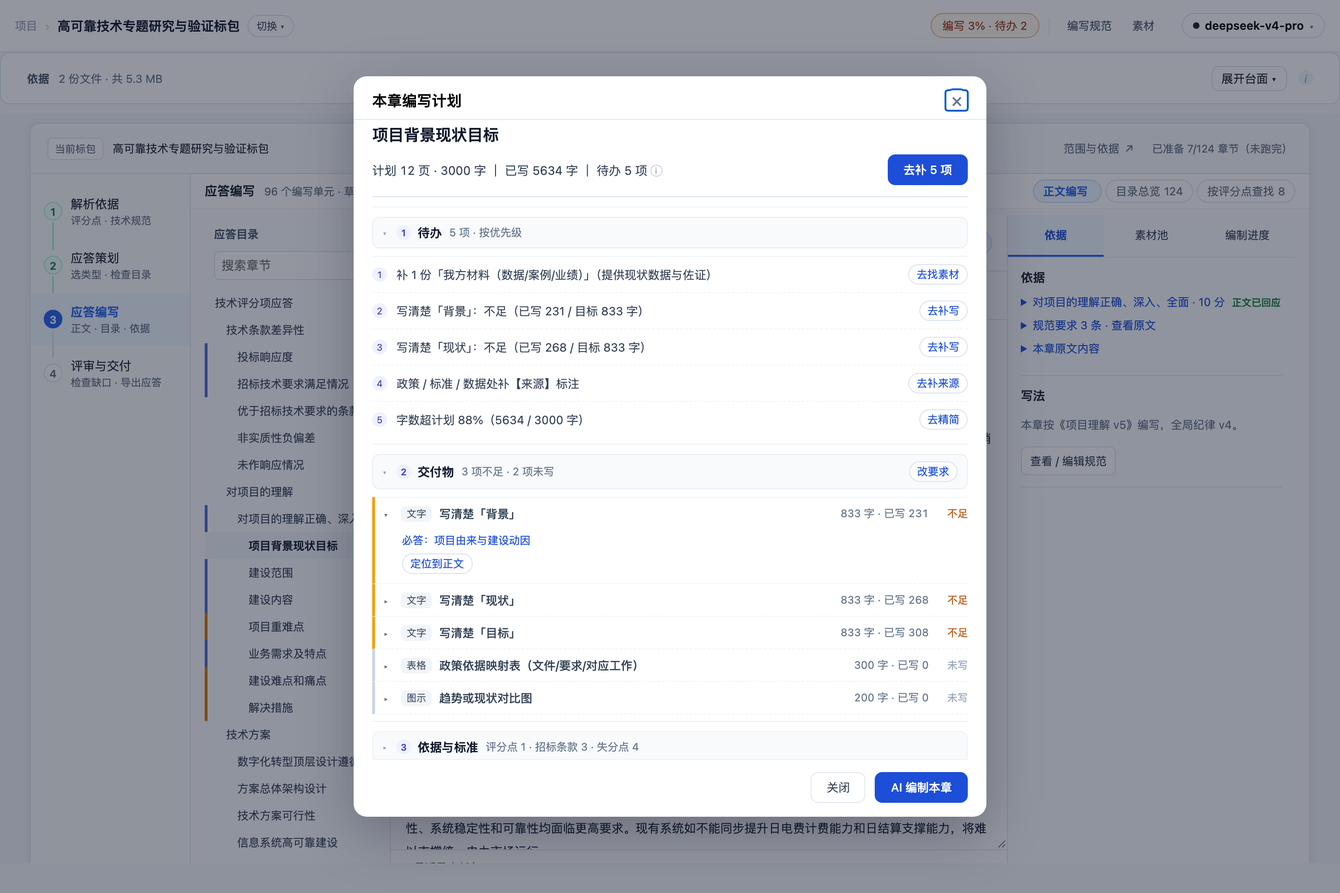
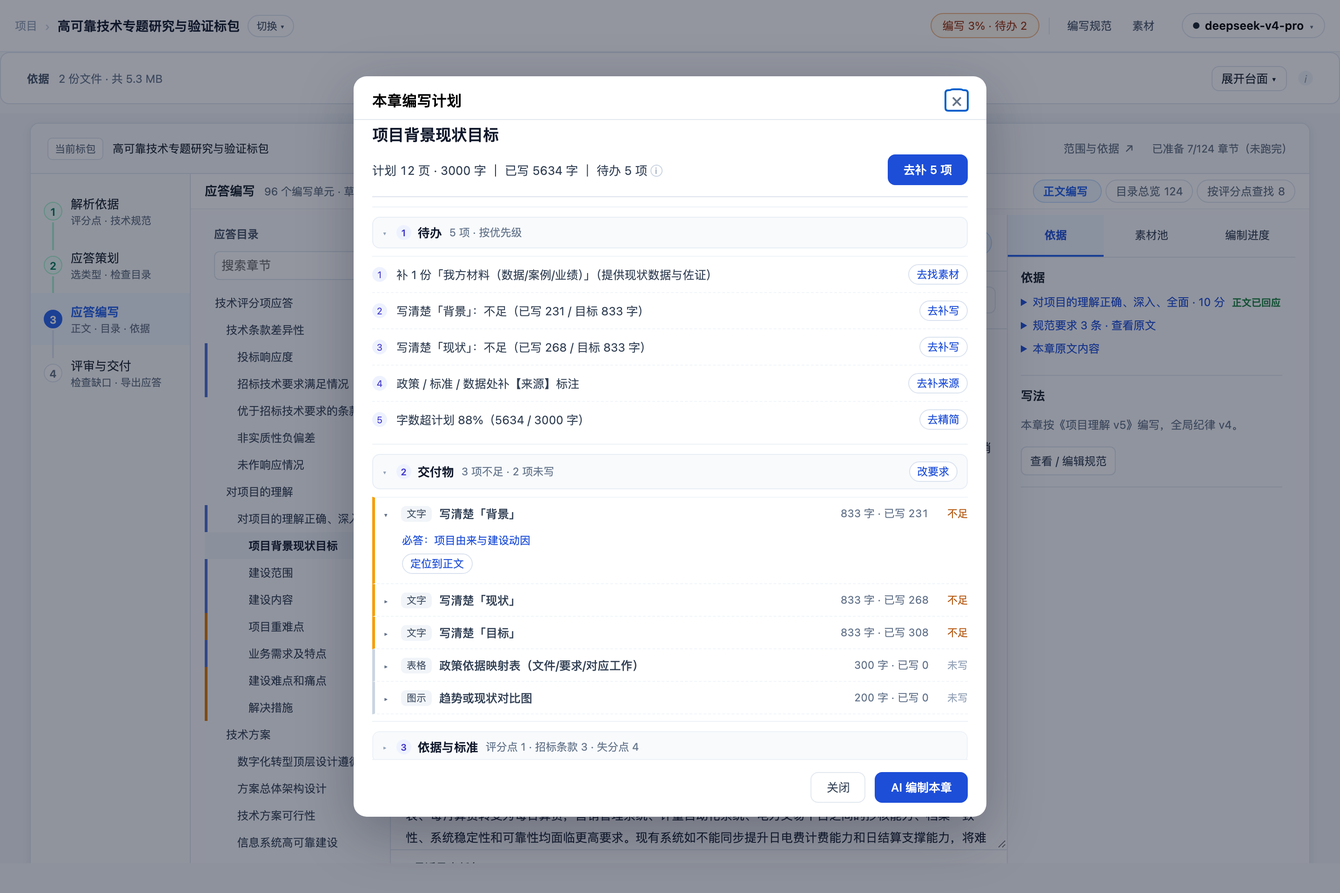
refactor(工具条): 按动作性质分组 + 状态改浮动 toast + 去掉重复入口
用户反馈：工具条和「更多」菜单的信息架构很乱。

## 问题
1. **同一动作两个入口**：工具条「文字生成图」与「更多 → 添加内容 → 手动关系图」都走 data-action="diagram"
2. **菜单里 4 类动作混杂**：插入内容（文字/表格/关系图）· 状态变更（确认本章完成）· 导出（本章/本组）· 检查（质检清单）
3. **菜单套菜单**：更多 → 添加内容 → 3 项，层级深、点击多
4. **状态条占正文一行**：错误/提示以一个全宽块插在工具条下方，把正文往下推

## 重排
```
[AI 编制本章] [保存]  [编辑|预览]                    插入 ▾   更多 ▾
                                                     文字说明   质检清单
                                                     手动表格   确认本章完成
                                                     关系图     ─────────
                                                                导出本章 Word
                                                                导出本组 Word
```
- 「插入 ▾」= 内容插入（文字说明 / 手动表格 / 关系图，合并重复的"文字生成图"）
- 「更多 ▾」= 检查与交付（质检清单 / 确认本章完成 / 导出本章 / 导出本组），中间一条分隔线区分
- 工具条右侧统一右对齐，主操作在左、低频在右
- 状态改为**浮动 toast**（底部居中、4s/错误 8s 自动消失），不再占正文行；点击菜单项后自动收起

## 顺带修复（自检发现）
删除「添加内容」菜单后，`host.querySelector('[data-add-menu]').hidden=…` 仍执行 → null 报错 →
**导致章节选中即失败**（章头为空、计划按钮消失）。已改为可选链。

## 自检加规则（30 条）
- 工具条分组清晰（主操作/视图/插入/更多，且无"文字生成图"重复项）
- 更多菜单按性质分组（更多 ≤4 项、插入 ≤3 项）
- 状态为浮动 toast（position: fixed）

`bash scripts/check.sh` → 30/30 通过（v310）

Changed region(s): [[0.3125, 0.9062, 0.75, 0.9688]]

diff --git a/frontend/assets/mode-outline.js b/frontend/assets/mode-outline.js
@@ -2,9 +2,9 @@
    抽成模块的目的：两段内联脚本有 90 个同名顶层标识符 + 18 个重复 DOM id，
    同页拼接必然互相覆盖；各自成为一个模块即各自一个作用域。
    本文件在抽取时**未改任何逻辑**。 */
-import {mountChapterStudio, exportDocument} from './chapter-studio.mjs?v=20261016-v307';
-import { api } from './api.js?v=20261016-v307';
-import { specContentHtml } from './spec-content.mjs?v=20261016-v307';
+import {mountChapterStudio, exportDocument} from './chapter-studio.mjs?v=20261016-v310';
+import { api } from './api.js?v=20261016-v310';
+import { specContentHtml } from './spec-content.mjs?v=20261016-v310';
 // 顶栏（项目名旁边那行「第 N 轮 · ...」）由共享壳 workspace.js 渲染。这里要把它
 // 改成**页面自己的真实状态**：checkpoint 的 stage 在准备中/编写准备完成后都停在
 // outline_review，只看它的话顶栏永远显示"待确认目录"（实测就是这个问题）。
@@ -12,7 +12,7 @@ import { workspace, renderWorkspaceChrome,
          REQUIREMENT_ROLES, SELECTABLE_REQUIREMENT_ROLES, ROLE_LABEL_SHARED, ROLE_HINT_SHARED,
          roleMismatchWarning, inferRoleFromFilename,
          uiAlert, uiConfirm,
-       } from './workspace.js?v=20261016-v307';
+       } from './workspace.js?v=20261016-v310';
 import { resolvePackageScope, buildOutlineTree, isOrphanedRun, activeStages, instructionDirty, newOutlineId, outlineSubtreeRange,
          moveOutlineNode, indentOutlineNode, outdentOutlineNode,
          moveManyOutlineNodes, indentManyOutlineNodes, outdentManyOutlineNodes,
@@ -31,7 +31,7 @@ import { resolvePackageScope, buildOutlineTree, isOrphanedRun, activeStages, ins
          // 章节状态投影：素材库 / 方案编辑 / 覆盖矩阵共用同一份判定（不再各算各的）
          chapterStage, chapterBadges, filterChapters, chapterFilterCounts,
          CHAPTER_STAGE_LABELS, evidenceByChapter, expandVisibleWithAncestors
-       } from './workspace-model.mjs?v=20261016-v307';
+       } from './workspace-model.mjs?v=20261016-v310';
 
 const params = new URLSearchParams(location.search);
 // projectId **只取数字部分**：链接被误写成 `?projectId=19**(Cmd+Shift+R)`（连带说明文字）
@@ -180,7 +180,7 @@ document.head.insertAdjacentHTML('beforeend', `<style>
 // 左栏章节树：行标记与「方案编辑」共用一份（2026-10-13 左栏归一）。
 // 此前两侧各拼一套（.ot-row / .doc-outline-item），数据投影虽已共用，
 // 但标记重复维护会漂移（workspace-model.mjs 注释里记着 "#undefined" 那次）。
-import { chapterNode, chapterBadgesHtml as sharedBadgesHtml } from './chapter-tree.mjs?v=20261016-v307';
+import { chapterNode, chapterBadgesHtml as sharedBadgesHtml } from './chapter-tree.mjs?v=20261016-v310';
 const blocksEmpty = document.getElementById('blocks-empty');
 const sidebarToc  = document.getElementById('sidebar-toc');
 const ringFill    = document.getElementById('ring-fill');

diff --git a/frontend/workbench.html b/frontend/workbench.html
@@ -4,7 +4,7 @@
     <meta charset="UTF-8" />
     <meta name="viewport" content="width=device-width, initial-scale=1.0" />
     <title>智能应标 · 材料撰写</title>
-    <link rel="stylesheet" href="./assets/styles.css?v=20261016-v307" />
+    <link rel="stylesheet" href="./assets/styles.css?v=20261016-v310" />
     <style>
       /* Outline pane */
       .workspace-shell .outline-pane {
@@ -2055,7 +2055,7 @@
     </style>
     <!-- Markdown 渲染（用于预览模式） -->
     <script src="https://cdn.jsdelivr.net/npm/marked@12.0.0/marked.min.js"></script>
-  <link rel="stylesheet" href="./assets/workspace.css?v=20261016-v307" />
+  <link rel="stylesheet" href="./assets/workspace.css?v=20261016-v310" />
   </head>
   <body>
   <script>
@@ -2500,18 +2500,18 @@
       </main>
     </div>
 
-    <script type="module" src="./assets/workbench.js?v=20261016-v307"></script>
+    <script type="module" src="./assets/workbench.js?v=20261016-v310"></script>
     <script type="module">
-      import { GenerateSession } from './assets/generate-session.js?v=20261016-v307';
-      import { initContextPanel } from './assets/context-panel.js?v=20261016-v307';
-      import { api } from './assets/api.js?v=20261016-v307';
-      import { request as workspaceRequest, refreshWorkspace, workspace, confirmChapterAction } from './assets/workspace.js?v=20261016-v307';
+      import { GenerateSession } from './assets/generate-session.js?v=20261016-v310';
+      import { initContextPanel } from './assets/context-panel.js?v=20261016-v310';
+      import { api } from './assets/api.js?v=20261016-v310';
+      import { request as workspaceRequest, refreshWorkspace, workspace, confirmChapterAction } from './assets/workspace.js?v=20261016-v310';
       // 提炼字段枚举 + 素材依据的**渲染片段**与 project-init 共用（见 workspace-model.mjs 注释）：
       // 性质徽标与出处行的实现在那边只有一份，两个页面不再各写一套（曾经因此漂移出
       // "每行显示 #undefined"）。
       import { CONSTRAINT_LEVELS, constraintLevelLabel,
                evidenceKindBadgeHtml, evidenceSourceLineHtml, evidenceSnippet,
-               chapterStage, CHAPTER_STAGE_LABELS } from './assets/workspace-model.mjs?v=20261016-v307';
+               chapterStage, CHAPTER_STAGE_LABELS } from './assets/workspace-model.mjs?v=20261016-v310';
       initContextPanel();
 
       // 素材抽屉：默认收起（写作时右栏就是正文本身），点工具栏「素材 n ▸」打开；
@@ -5575,6 +5575,6 @@
       })();
     })();
     </script>
-  <script type="module" src="./assets/workspace.js?v=20261016-v307"></script>
+  <script type="module" src="./assets/workspace.js?v=20261016-v310"></script>
   </body>
 </html>

diff --git a/frontend/three-mode.html b/frontend/three-mode.html
@@ -4,9 +4,9 @@
     <meta charset="UTF-8" />
     <meta name="viewport" content="width=device-width, initial-scale=1.0" />
     <title>AiBidding · Workbench Init State</title>
-    <link rel="stylesheet" href="./assets/response-outline.css?v=20261016-v307" />
-    <link rel="stylesheet" href="./assets/chapter-studio.css?v=20261016-v307" />
-    <link rel="stylesheet" href="./assets/styles.css?v=20261016-v307" />
+    <link rel="stylesheet" href="./assets/response-outline.css?v=20261016-v310" />
+    <link rel="stylesheet" href="./assets/chapter-studio.css?v=20261016-v310" />
+    <link rel="stylesheet" href="./assets/styles.css?v=20261016-v310" />
     <style>
 /* ── 三栏布局 ── */
 .init-layout {
@@ -3350,8 +3350,8 @@ body[data-view="matching"] .match-detail { display: block; }
   body[data-view="editor"] .ws-editor-layout { flex: 1 1 auto; min-height: 0; }
 
 </style>
-  <link rel="stylesheet" href="./assets/workspace.css?v=20261016-v307" />
-  <link rel="stylesheet" href="./assets/ui.css?v=20261016-v307" />   <!-- 组件最小集：最后加载以统一历史类名 -->
+  <link rel="stylesheet" href="./assets/workspace.css?v=20261016-v310" />
+  <link rel="stylesheet" href="./assets/ui.css?v=20261016-v310" />   <!-- 组件最小集：最后加载以统一历史类名 -->
   </head>
   <body data-view="outline" data-modes="outline,matching,editor">
     <div class="workspace-shell">
@@ -4062,16 +4062,16 @@ body[data-view="matching"] .match-detail { display: block; }
         if (skel) skel.hidden = true;
       }, 6000);
     </script>
-    <script type="module" src="./assets/workbench.js?v=20261016-v307"></script>
-    <script type="module" src="./assets/mode-dispatch.js?v=20261016-v307"></script>
+    <script type="module" src="./assets/workbench.js?v=20261016-v310"></script>
+    <script type="module" src="./assets/mode-dispatch.js?v=20261016-v310"></script>
     <!-- 动态 import：失败可捕获并上报（静态 import 失败无法捕获，会让整页静默不执行） -->
     <script type="module">
-      for (const mod of ['./assets/mode-outline.js?v=20261016-v307',
-                        './assets/mode-editor.js?v=20261016-v307']) {
+      for (const mod of ['./assets/mode-outline.js?v=20261016-v310',
+                        './assets/mode-editor.js?v=20261016-v310']) {
         try { await import(mod); }
         catch (err) { window.__bootErrors.push(`模块加载失败 ${mod}：${err?.message || err}`); }
       }
     </script>
-  <script type="module" src="./assets/workspace.js?v=20261016-v307"></script>
+  <script type="module" src="./assets/workspace.js?v=20261016-v310"></script>
   </body>
 </html>

diff --git a/frontend/project-init.html b/frontend/project-init.html
@@ -4,7 +4,7 @@
     <meta charset="UTF-8" />
     <meta name="viewport" content="width=device-width, initial-scale=1.0" />
     <title>AiBidding · Workbench Init State</title>
-    <link rel="stylesheet" href="./assets/styles.css?v=20261016-v307" />
+    <link rel="stylesheet" href="./assets/styles.css?v=20261016-v310" />
     <style>
 /* ── 三栏布局 ── */
 .init-layout {
@@ -889,7 +889,7 @@ body[data-view="matching"] .match-detail { display: block; }
   background: #eff6ff;
 }
     </style>
-  <link rel="stylesheet" href="./assets/workspace.css?v=20261016-v307" />
+  <link rel="stylesheet" href="./assets/workspace.css?v=20261016-v310" />
   </head>
   <body data-view="outline">
   <script>
@@ -1097,14 +1097,14 @@ body[data-view="matching"] .match-detail { display: block; }
     </div>
 
     <script type="module">
-import { api } from './assets/api.js?v=20261016-v307';
+import { api } from './assets/api.js?v=20261016-v310';
 // 顶栏（项目名旁边那行「第 N 轮 · ...」）由共享壳 workspace.js 渲染。这里要把它
 // 改成**页面自己的真实状态**：checkpoint 的 stage 在提炼中/提炼完成后都停在
 // outline_review，只看它的话顶栏永远显示"待确认目录"（实测就是这个问题）。
 import { workspace, renderWorkspaceChrome,
          REQUIREMENT_ROLES, ROLE_LABEL_SHARED, ROLE_HINT_SHARED,
          roleMismatchWarning, inferRoleFromFilename,
-       } from './assets/workspace.js?v=20261016-v307';
+       } from './assets/workspace.js?v=20261016-v310';
 import { buildOutlineTree, isOrphanedRun, activeStages, instructionDirty, newOutlineId, outlineSubtreeRange,
          moveOutlineNode, indentOutlineNode, outdentOutlineNode,
          removeOutlineSubtree, insertSiblingAfter, insertChildOf,
@@ -1118,7 +1118,7 @@ import { buildOutlineTree, isOrphanedRun, activeStages, instructionDirty, newOut
          // 章节状态投影：素材库 / 方案编辑 / 覆盖矩阵共用同一份判定（不再各算各的）
          chapterStage, chapterBadges, filterChapters, chapterFilterCounts,
          CHAPTER_STAGE_LABELS, evidenceByChapter, expandVisibleWithAncestors
-       } from './assets/workspace-model.mjs?v=20261016-v307';
+       } from './assets/workspace-model.mjs?v=20261016-v310';
 
 const params = new URLSearchParams(location.search);
 const projectId = params.get('projectId');
@@ -4957,6 +4957,6 @@ bindMatchDetailActions();
   });
 })();
     </script>
-  <script type="module" src="./assets/workspace.js?v=20261016-v307"></script>
+  <script type="module" src="./assets/workspace.js?v=20261016-v310"></script>
   </body>
 </html>

diff --git a/frontend/assets/chapter-studio.css b/frontend/assets/chapter-studio.css
@@ -505,3 +505,27 @@
 .cs-mat-card-top .cs-mat-title { flex: 1; min-width: 0; }
 .cs-mat-tag { flex-shrink: 0; font-size: 10.5px; padding: 1px 7px; border-radius: 999px; background: #fef3c7; color: #92400e; }
 .cs-mat-tag.ok { background: #dcfce7; color: #166534; }
+
+/* 工具条：主操作 / 视图 / 插入▾ / 更多▾ 分组 */
+.cs-toolbar { display: flex; align-items: center; gap: 8px; flex-wrap: wrap; }
+.cs-toolbar-right { margin-left: auto; display: flex; align-items: center; gap: 4px; }
+.cs-toolbar .cs-view-switch { margin-left: 4px; }
+.cs-insert, .cs-more { position: relative; }
+.cs-insert > summary, .cs-more > summary { list-style: none; cursor: pointer; font-size: 12px; color: #475569;
+  padding: 5px 10px; border-radius: 7px; border: 1px solid #e2e8f0; background: #fff; }
+.cs-insert > summary::-webkit-details-marker, .cs-more > summary::-webkit-details-marker { display: none; }
+.cs-insert[open] > summary, .cs-more[open] > summary { background: #f1f5f9; }
+.cs-insert-menu, .cs-more-menu { position: absolute; right: 0; top: calc(100% + 4px); z-index: 20; min-width: 148px;
+  background: #fff; border: 1px solid #e2e8f0; border-radius: 10px; box-shadow: 0 10px 28px rgba(15,23,42,.14); padding: 5px; }
+.cs-insert-menu button, .cs-more-menu button { display: block; width: 100%; text-align: left; font: inherit; font-size: 12px;
+  padding: 7px 10px; border: 0; background: transparent; border-radius: 6px; color: #334155; cursor: pointer; }
+.cs-insert-menu button:hover, .cs-more-menu button:hover { background: #f1f5f9; }
+.cs-more-sep { height: 1px; background: #eef2f7; margin: 4px 6px; }
+
+/* 状态：浮动 toast（不再占正文的一行） */
+[data-cs="status"] { position: fixed; left: 50%; bottom: 22px; transform: translateX(-50%) translateY(8px);
+  z-index: 60; max-width: min(560px, 90vw); padding: 9px 14px; border-radius: 10px; font-size: 12.5px; line-height: 1.5;
+  background: #0f172a; color: #fff; box-shadow: 0 12px 30px rgba(15,23,42,.28); opacity: 0; transition: opacity .18s, transform .18s;
+  pointer-events: none; }
+[data-cs="status"].is-on { opacity: 1; transform: translateX(-50%) translateY(0); }
+[data-cs="status"].is-error { background: #7f1d1d; }

diff --git a/frontend/assets/mode-editor.js b/frontend/assets/mode-editor.js
@@ -2,13 +2,13 @@
    抽成模块的目的：两段内联脚本有 90 个同名顶层标识符 + 18 个重复 DOM id，
    同页拼接必然互相覆盖；各自成为一个模块即各自一个作用域。
    本文件在抽取时**未改任何逻辑**。 */
-import { GenerateSession } from './generate-session.js?v=20261016-v307';
+import { GenerateSession } from './generate-session.js?v=20261016-v310';
 // 左栏章节树：与「要求与大纲 / 素材库」共用一份行标记（2026-10-13 左栏归一）
-import { chapterNode, renderChapterTree } from './chapter-tree.mjs?v=20261016-v307';
-import { initContextPanel } from './context-panel.js?v=20261016-v307';
-import { api } from './api.js?v=20261016-v307';
+import { chapterNode, renderChapterTree } from './chapter-tree.mjs?v=20261016-v310';
+import { initContextPanel } from './context-panel.js?v=20261016-v310';
+import { api } from './api.js?v=20261016-v310';
 import { request as workspaceRequest, refreshWorkspace, workspace, confirmChapterAction ,
-         uiAlert, uiConfirm} from './workspace.js?v=20261016-v307';
+         uiAlert, uiConfirm} from './workspace.js?v=20261016-v310';
 
 // ── 本章要求 bar 的应答条目缓存 ──────────────────────────────
 // 必须**声明在模块最前面**：它原本声明在文件中部，而模块之间存在循环依赖
@@ -21,7 +21,7 @@ let responseItemsByBlock = {};
 // "每行显示 #undefined"）。
 import { CONSTRAINT_LEVELS, constraintLevelLabel,
          evidenceKindBadgeHtml, evidenceSourceLineHtml, evidenceSnippet,
-         chapterStage, CHAPTER_STAGE_LABELS } from './workspace-model.mjs?v=20261016-v307';
+         chapterStage, CHAPTER_STAGE_LABELS } from './workspace-model.mjs?v=20261016-v310';
 initContextPanel();
 
 // 素材抽屉：默认收起（写作时右栏就是正文本身），点工具栏「素材 n ▸」打开；

diff --git a/frontend/project-intake.html b/frontend/project-intake.html
@@ -3,7 +3,7 @@
 <head>
   <meta charset="utf-8"><meta name="viewport" content="width=device-width,initial-scale=1">
   <title>项目准备 · 智能应标</title>
-  <link rel="stylesheet" href="/assets/styles.css?v=20261016-v307">
+  <link rel="stylesheet" href="/assets/styles.css?v=20261016-v310">
   <style>
     body{margin:0;background:#f7f8fa;color:#17202a;font-family:Inter,"PingFang SC",sans-serif}
     .shell{max-width:1120px;margin:auto;padding:28px}.top{display:flex;justify-content:space-between;align-items:center;margin-bottom:22px}
@@ -32,4 +32,4 @@
 </main>
 <dialog id="package-editor"><form id="package-form"><h2>编辑投标对象</h2><p class="hint">仅在识别有误时修改；名称可留空。</p><input id="edit-id" type="hidden"><label>对象类型<select id="edit-kind"><option value="package">标包</option><option value="section">标段</option><option value="target">独立标的</option></select></label><label>所属标的编号<input id="edit-target"></label><label>标包 / 标段编号<input id="edit-code"></label><label>完整名称<input id="edit-name" maxlength="300"></label><div class="actions"><button type="button" id="cancel-edit">取消</button><button class="primary" type="submit">保存</button></div></form></dialog>
 <dialog id="merge-dialog"><form id="merge-form"><h2>合并重复候选</h2><p class="hint">将当前候选的证据合并到以下保留项。已有运行成果的候选不能合并，保留项需要重新核验。</p><input id="merge-source" type="hidden"><label>保留的投标对象<select id="merge-destination"></select></label><div class="actions"><button type="button" id="cancel-merge">取消</button><button type="submit" class="primary">确认合并</button></div></form></dialog>
-<script type="module" src="/assets/intake.js?v=20261016-v307"></script></body></html>
+<script type="module" src="/assets/intake.js?v=20261016-v310"></script></body></html>

diff --git a/frontend/review.html b/frontend/review.html
@@ -4,16 +4,16 @@
     <meta charset="UTF-8" />
     <meta name="viewport" content="width=device-width, initial-scale=1.0" />
     <title>AiBidding · 质量检查</title>
-    <link rel="stylesheet" href="./assets/styles.css?v=20261016-v307" />
-    <link rel="stylesheet" href="./assets/review.css?v=20261016-v307" />
-  <link rel="stylesheet" href="./assets/workspace.css?v=20261016-v307" />
+    <link rel="stylesheet" href="./assets/styles.css?v=20261016-v310" />
+    <link rel="stylesheet" href="./assets/review.css?v=20261016-v310" />
+  <link rel="stylesheet" href="./assets/workspace.css?v=20261016-v310" />
   <style>
     /* 返回作业面板：与项目名同级的次级入口 */
     .back-to-panel { margin-left:10px; font-size:12.5px; color:var(--muted); text-decoration:none;
       border:1px solid var(--line); border-radius:8px; padding:3px 10px; }
     .back-to-panel:hover { color:var(--text); background:var(--bg-2); }
   </style>
-  <link rel="stylesheet" href="./assets/ui.css?v=20261016-v307" />   <!-- 组件最小集：最后加载以统一历史类名 -->
+  <link rel="stylesheet" href="./assets/ui.css?v=20261016-v310" />   <!-- 组件最小集：最后加载以统一历史类名 -->
   </head>
   <body>
     <div class="workspace-shell">
@@ -96,7 +96,7 @@
       </main>
     </div>
 
-    <script type="module" src="./assets/review.js?v=20261016-v307"></script>
-  <script type="module" src="./assets/workspace.js?v=20261016-v307"></script>
+    <script type="module" src="./assets/review.js?v=20261016-v310"></script>
+  <script type="module" src="./assets/workspace.js?v=20261016-v310"></script>
   </body>
 </html>

diff --git a/frontend/assets/workbench.js b/frontend/assets/workbench.js
@@ -1,12 +1,12 @@
-import {workspace, subscribe, refreshWorkspace, workspaceUrl, confirmChapterAction, openDialog, showHistory, statusLabels, esc} from './workspace.js?v=20261016-v307';
+import {workspace, subscribe, refreshWorkspace, workspaceUrl, confirmChapterAction, openDialog, showHistory, statusLabels, esc} from './workspace.js?v=20261016-v310';
 // 章节状态/依据徽标与「素材库」共用一份投影（同一棵目录树，四个环节都一样）
-import {chapterBadges, parseEvidence} from './workspace-model.mjs?v=20261016-v307';
+import {chapterBadges, parseEvidence} from './workspace-model.mjs?v=20261016-v310';
 // 左栏章节树：**三个模式共用一份**行标记（2026-10-13 归一）。
 // 此前编辑器侧自己拼 `.doc-outline-item`、大纲侧拼 `.ot-row`，是两套实现；
 // 数据投影本就共用（workspace-model），这里把标记也收敛掉。
 // 行上仍保留 `doc-outline-item` 类与 data-block-id 属性，兼容 mode-editor.js 里
 // 既有的 10 处选择器（改动面最小化）。
-import {chapterNode, renderChapterTree, chapterBadgesHtml} from './chapter-tree.mjs?v=20261016-v307';
+import {chapterNode, renderChapterTree, chapterBadgesHtml} from './chapter-tree.mjs?v=20261016-v310';
 // 左栏树的**唯一宿主**：由 mode-dispatch 在模式切换时把 #blocks-list 搬到当前模式的
 // 左栏位置。归一前这里是 `.doc-outline`，与大纲侧 `#blocks-list` 各渲一棵（实测
 // .ot-node 有 120 个 = 两棵各 60）。动态解析而不是加载时捕获，就是为了让宿主可搬。

diff --git a/frontend/projects.html b/frontend/projects.html
@@ -4,7 +4,7 @@
     <meta charset="UTF-8" />
     <meta name="viewport" content="width=device-width, initial-scale=1.0" />
     <title>智能应标 · 项目列表</title>
-    <link rel="stylesheet" href="./assets/styles.css?v=20261016-v307" />
+    <link rel="stylesheet" href="./assets/styles.css?v=20261016-v310" />
     <style>
       /* ── 页头 ── */
       .app-header {
@@ -613,7 +613,7 @@
       .btn-api-save:disabled { opacity: 0.45; cursor: default; }
       .btn-api-save:not(:disabled):hover { opacity: 0.88; }
     </style>
-    <link rel="stylesheet" href="./assets/ui.css?v=20261016-v307" />   <!-- 组件最小集：最后加载以统一历史类名 -->
+    <link rel="stylesheet" href="./assets/ui.css?v=20261016-v310" />   <!-- 组件最小集：最后加载以统一历史类名 -->
 </head>
   <body>
     <!-- 页头 -->
@@ -745,7 +745,7 @@
     </div>
 
     <script type="module">
-      import { api } from './assets/api.js?v=20261016-v307';
+      import { api } from './assets/api.js?v=20261016-v310';
 
       // ── 状态 ──
       const reqFiles = []; // {file, name, size, ext}

diff --git a/frontend/diff-review.html b/frontend/diff-review.html
@@ -4,8 +4,8 @@
     <meta charset="UTF-8" />
     <meta name="viewport" content="width=device-width, initial-scale=1.0" />
     <title>AiBidding · Diff Review</title>
-    <link rel="stylesheet" href="./assets/styles.css?v=20261016-v307" />
-  <link rel="stylesheet" href="./assets/workspace.css?v=20261016-v307" />
+    <link rel="stylesheet" href="./assets/styles.css?v=20261016-v310" />
+  <link rel="stylesheet" href="./assets/workspace.css?v=20261016-v310" />
   </head>
   <body>
     <div class="workspace-shell">
@@ -98,7 +98,7 @@
     </div>
 
     <script type="module">
-      import { api } from './assets/api.js?v=20261016-v307';
+      import { api } from './assets/api.js?v=20261016-v310';
 
       const params    = new URLSearchParams(location.search);
       const projectId = params.get('projectId');
@@ -326,6 +326,6 @@
 
       loadRevisions();
     </script>
-  <script type="module" src="./assets/workspace.js?v=20261016-v307"></script>
+  <script type="module" src="./assets/workspace.js?v=20261016-v310"></script>
   </body>
 </html>

diff --git a/frontend/assets/workspace.js b/frontend/assets/workspace.js
@@ -1,11 +1,11 @@
-import {projectChapters, summarize, statusLabels, stageLabels, activeStages, runtimeStages, isOrphanedRun, isExtractDone, diffHtml, escapeHtml as esc} from './workspace-model.mjs?v=20261016-v307';
+import {projectChapters, summarize, statusLabels, stageLabels, activeStages, runtimeStages, isOrphanedRun, isExtractDone, diffHtml, escapeHtml as esc} from './workspace-model.mjs?v=20261016-v310';
 export {statusLabels, esc};
 // 材料角色体系再导出：project-init 的角色下拉与"分类纠错提示"都从这里取
 export {
   REQUIREMENT_ROLES, SELECTABLE_REQUIREMENT_ROLES, SOURCE_ROLES, ALL_MATERIAL_ROLES,
   ROLE_LABEL as ROLE_LABEL_SHARED, ROLE_HINT as ROLE_HINT_SHARED,
   isRequirementRole, inferRoleFromFilename, roleMismatchWarning,
-} from './material-roles.mjs?v=20261016-v307';
+} from './material-roles.mjs?v=20261016-v310';
 export async function request(url, options) {
   const response = await fetch(url, options);
   const data = await response.json().catch(() => ({}));
